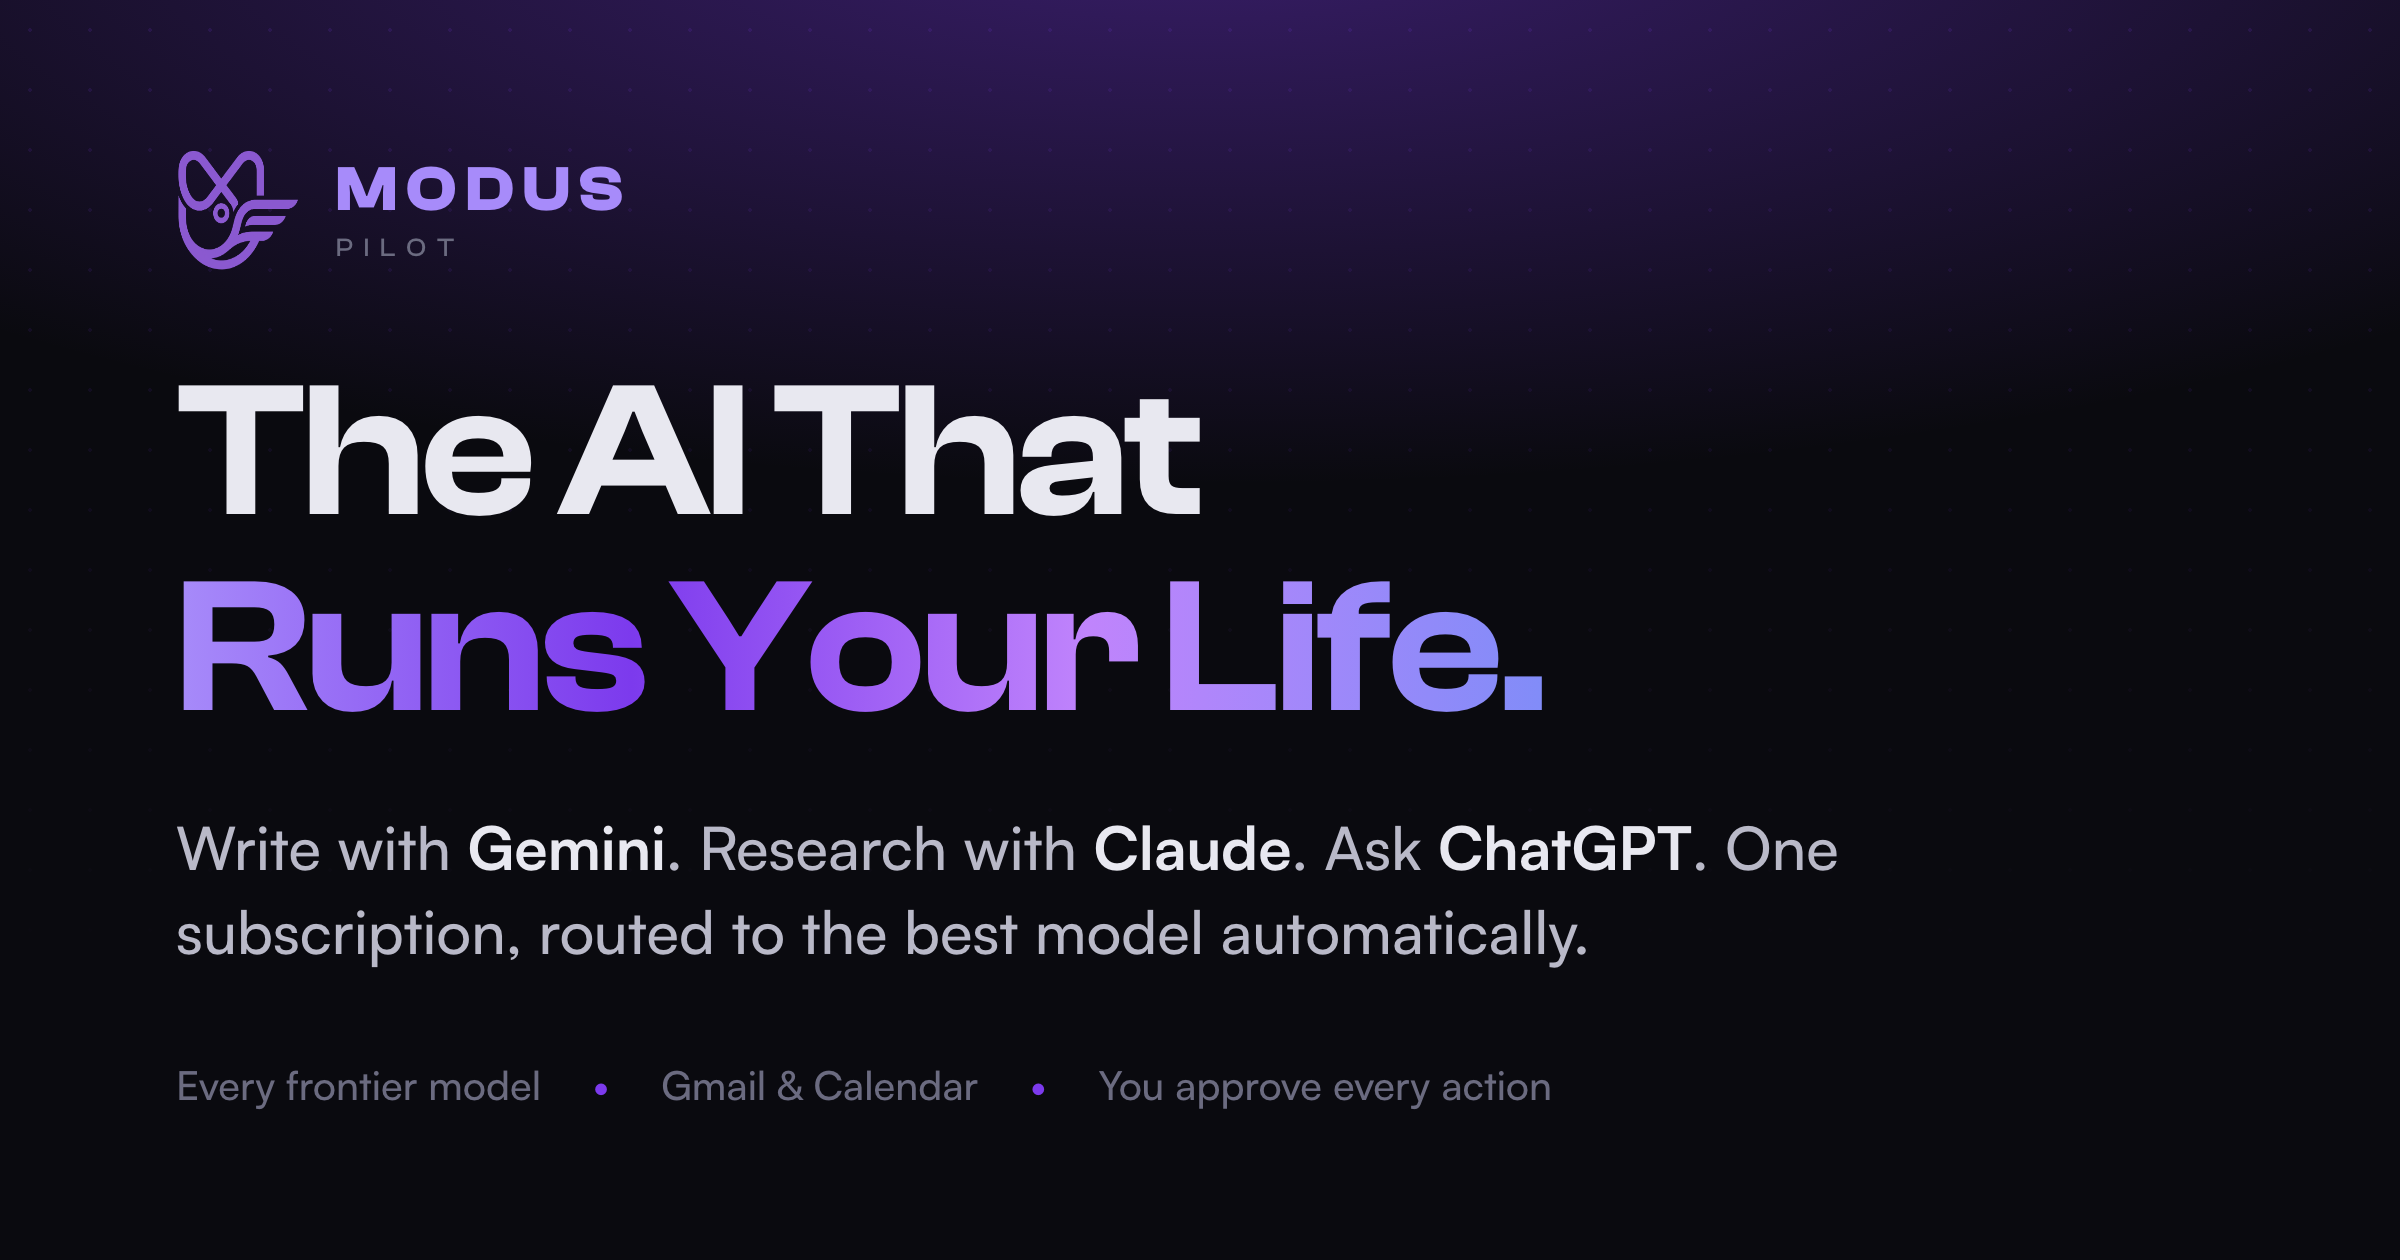
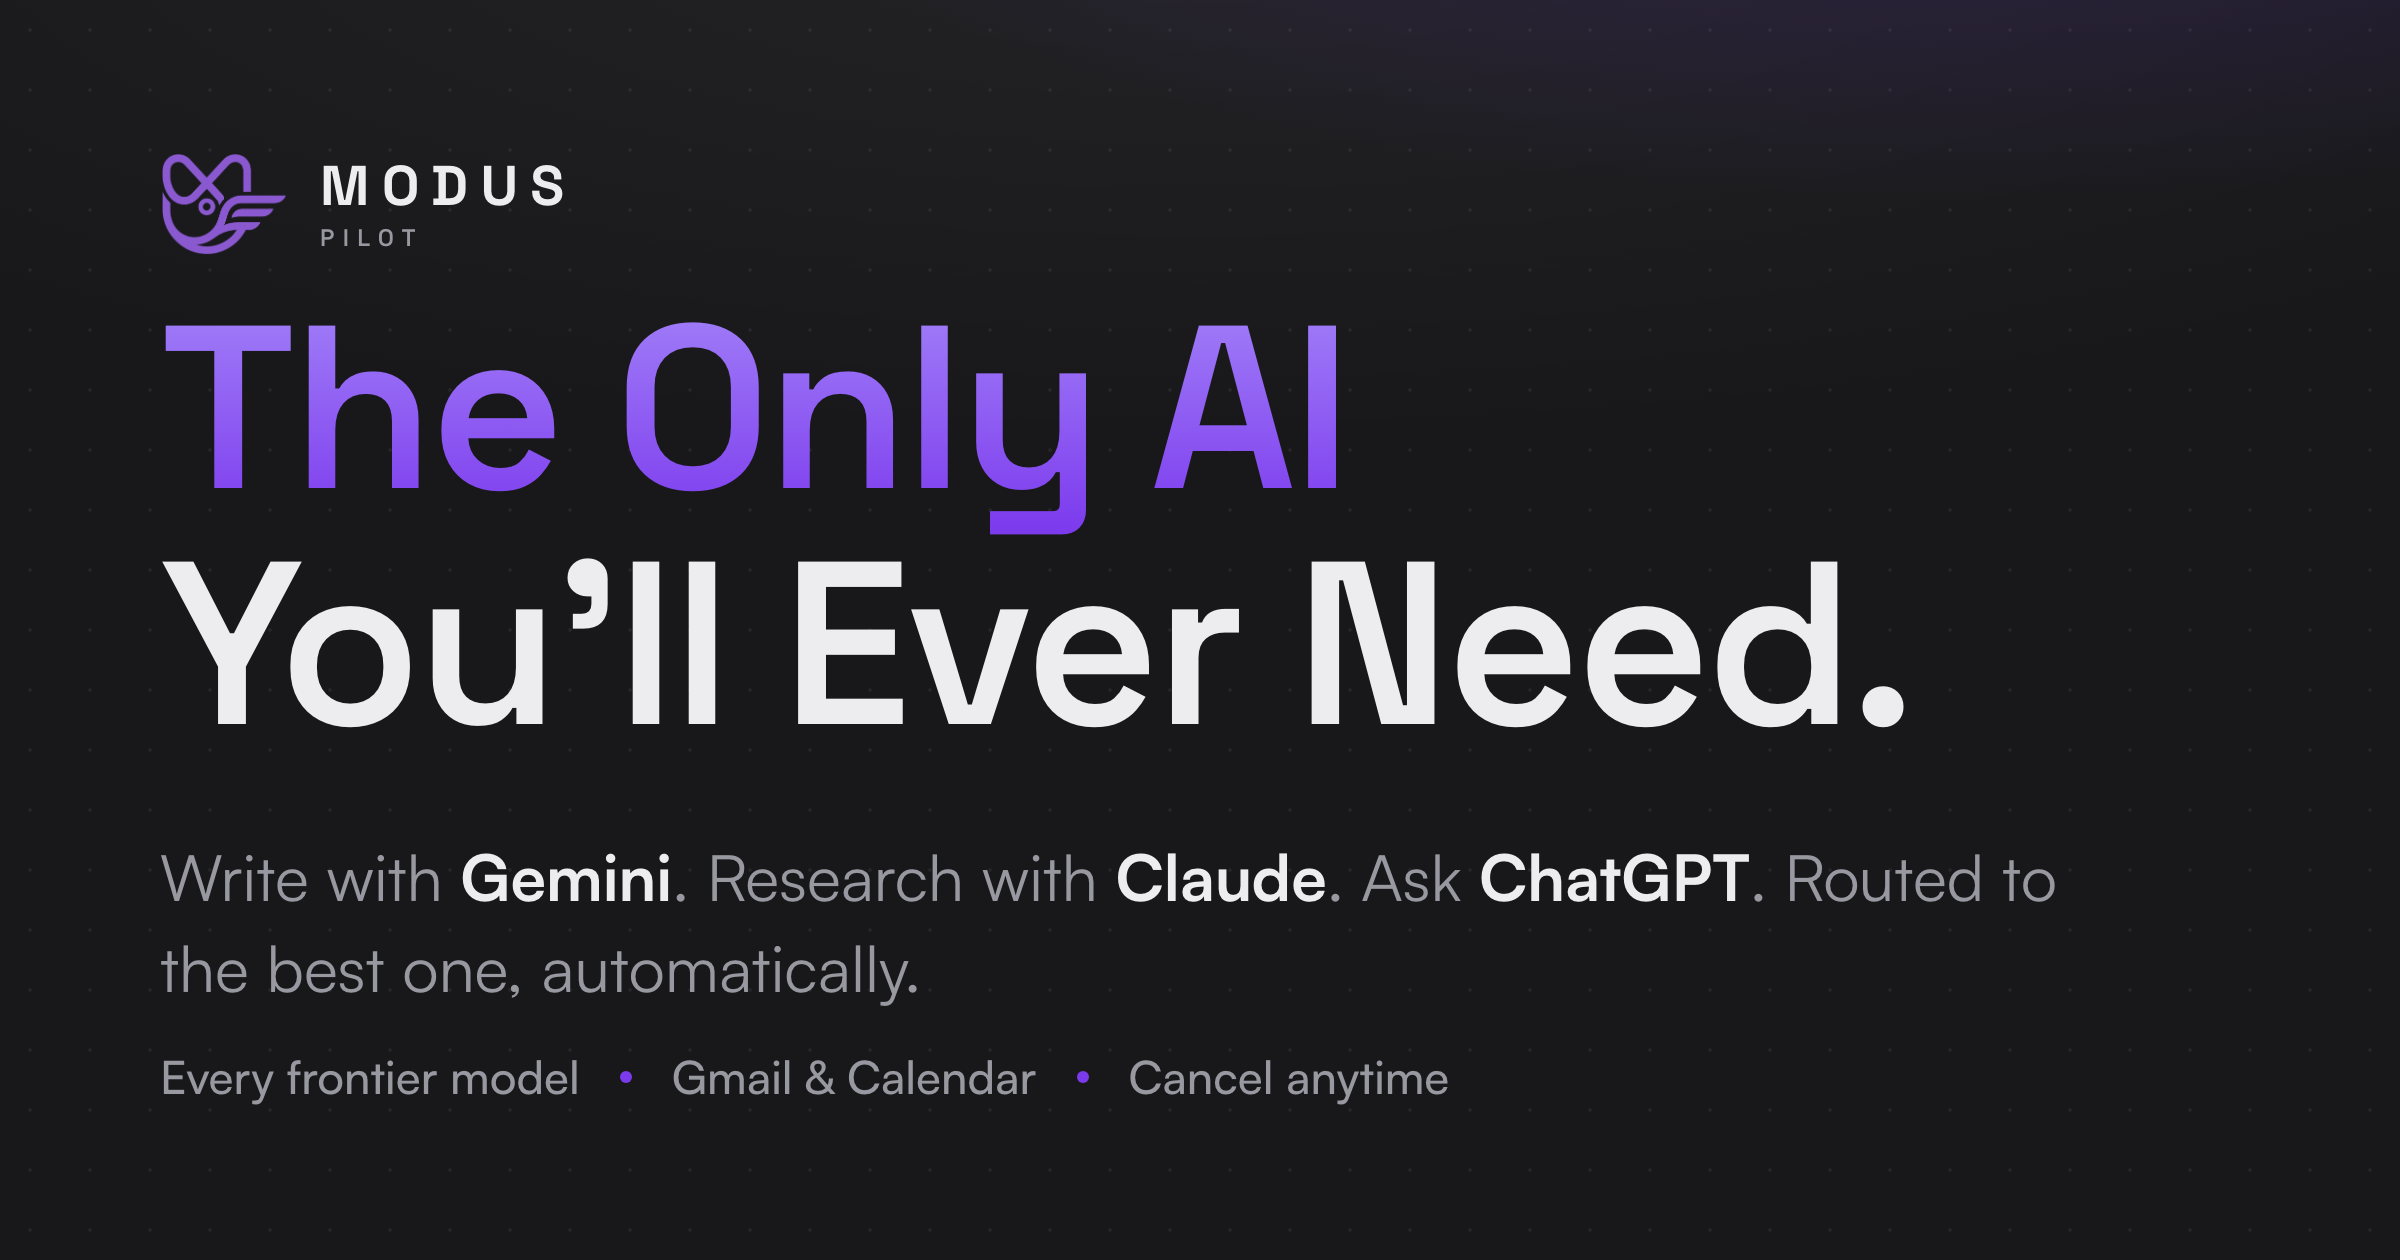
Refresh stale og.png link preview to match current hero
The social/link preview card was a hand-made PNG from July still showing
the old positioning (heavy purple wash, "The AI That Runs Your Life", the
old subhead and bullets). Every page's metadata points at the single
/og.png, so the stale image showed everywhere the site was shared.

Replace it with a 2400x1260 card that mirrors the live hero: headline
"The Only AI You'll Ever Need." in Space Grotesk, current subhead, violet
as an accent only over the near-black ground (no purple wash), violet bird
mark plus MODUS/PILOT lockup. Add scripts/og-template.html and
scripts/gen-og-image.mjs (headless Chrome at 2x) so the card is a
one-command regenerate instead of a hand asset.

diff --git a/apps/web/scripts/og-template.html b/apps/web/scripts/og-template.html
@@ -1,0 +1,130 @@
+<!doctype html>
+<!--
+  Source template for public/og.png (the moduspilot.com link preview card).
+  Rendered to a 2400x1260 PNG by scripts/gen-og-image.mjs (headless Chrome @2x).
+  Edit the copy/design here, then re-run the generator. Keep it matched to the
+  live hero in components/marketing/HeroSection.tsx. Violet stays (AGENTS.md).
+  __LOGO_SRC__ is replaced with an inline data URI by the generator.
+-->
+<html lang="en">
+<head>
+<meta charset="utf-8" />
+<link rel="preconnect" href="https://fonts.googleapis.com" />
+<link rel="preconnect" href="https://fonts.gstatic.com" crossorigin />
+<link rel="preconnect" href="https://api.fontshare.com" crossorigin />
+<link rel="stylesheet" href="https://fonts.googleapis.com/css2?family=Space+Grotesk:wght@400;500;600;700&display=swap" />
+<link rel="stylesheet" href="https://api.fontshare.com/v2/css?f[]=satoshi@400,500,700&display=swap" />
+<style>
+  :root {
+    --bg: #18181b;          /* --color-bg dark */
+    --text: #ededf0;        /* --color-text dark */
+    --muted: #9898a0;       /* --color-muted dark */
+    --brand: #7c3aed;       /* brand-light, the dark-surface violet */
+    --brand-hi: #a78bfa;    /* lighter violet for gradient top */
+    --grotesk: 'Space Grotesk', system-ui, sans-serif;
+    --sans: 'Satoshi', system-ui, sans-serif;
+  }
+  * { margin: 0; padding: 0; box-sizing: border-box; }
+  html, body { width: 1200px; height: 630px; }
+  body {
+    position: relative;
+    background: var(--bg);
+    color: var(--text);
+    font-family: var(--sans);
+    overflow: hidden;
+    -webkit-font-smoothing: antialiased;
+  }
+  /* Achromatic overhead light + faint dot grid, matching HeroSection.
+     A single low-opacity violet glow, NOT a full purple wash. */
+  .glow-neutral {
+    position: absolute; inset: 0;
+    background: radial-gradient(ellipse 120% 70% at 50% -8%, rgba(255,255,255,0.05), transparent 62%);
+  }
+  .glow-violet {
+    position: absolute; inset: 0;
+    background: radial-gradient(ellipse 90% 60% at 82% -20%, rgba(124,58,237,0.22), transparent 60%);
+  }
+  .grid {
+    position: absolute; inset: 0;
+    background-image: radial-gradient(rgba(255,255,255,0.05) 1px, transparent 1px);
+    background-size: 30px 30px;
+  }
+  .frame {
+    position: relative; z-index: 1;
+    width: 100%; height: 100%;
+    padding: 76px 80px;
+    display: flex; flex-direction: column;
+  }
+  /* Brand lockup */
+  .brand { display: flex; align-items: center; gap: 16px; }
+  .brand img { height: 52px; width: auto; display: block; }
+  .brand .marks { display: flex; flex-direction: column; line-height: 1; }
+  .brand .word {
+    font-family: var(--grotesk); font-weight: 700; font-size: 28px;
+    letter-spacing: 0.22em; color: var(--text);
+  }
+  .brand .tier {
+    font-family: var(--grotesk); font-weight: 600; font-size: 12px;
+    letter-spacing: 0.34em; text-transform: uppercase; color: var(--muted);
+    margin-top: 6px;
+  }
+  /* Headline */
+  .headline {
+    font-family: var(--grotesk); font-weight: 600;
+    font-size: 116px; line-height: 1.02; letter-spacing: -0.02em;
+    margin-top: auto; margin-bottom: 34px;
+  }
+  .headline .accent {
+    background: linear-gradient(180deg, var(--brand-hi) 0%, var(--brand) 92%);
+    -webkit-background-clip: text; background-clip: text; color: transparent;
+  }
+  .headline .plain { color: var(--text); }
+  /* Subhead */
+  .subhead {
+    font-family: var(--sans); font-weight: 400;
+    font-size: 32px; line-height: 1.42; color: var(--muted);
+    max-width: 960px;
+  }
+  .subhead b { color: var(--text); font-weight: 700; }
+  /* Trust row */
+  .trust {
+    margin-top: auto;
+    display: flex; align-items: center; gap: 20px;
+    font-family: var(--sans); font-weight: 500;
+    font-size: 23px; color: var(--muted);
+  }
+  .trust .dot { width: 6px; height: 6px; border-radius: 999px; background: var(--brand); display: inline-block; }
+</style>
+</head>
+<body>
+  <div class="glow-neutral"></div>
+  <div class="glow-violet"></div>
+  <div class="grid"></div>
+  <div class="frame">
+    <div class="brand">
+      <img src="__LOGO_SRC__" alt="" />
+      <div class="marks">
+        <span class="word">MODUS</span>
+        <span class="tier">Pilot</span>
+      </div>
+    </div>
+
+    <h1 class="headline">
+      <span class="accent">The Only AI</span><br />
+      <span class="plain">You&rsquo;ll Ever Need.</span>
+    </h1>
+
+    <p class="subhead">
+      Write with <b>Gemini</b>. Research with <b>Claude</b>. Ask <b>ChatGPT</b>. Routed to the best one, automatically.
+    </p>
+
+    <div class="trust">
+      <span>Every frontier model</span>
+      <span class="dot"></span>
+      <span>Gmail &amp; Calendar</span>
+      <span class="dot"></span>
+      <span>Cancel anytime</span>
+    </div>
+  </div>
+</body>
+</html>
